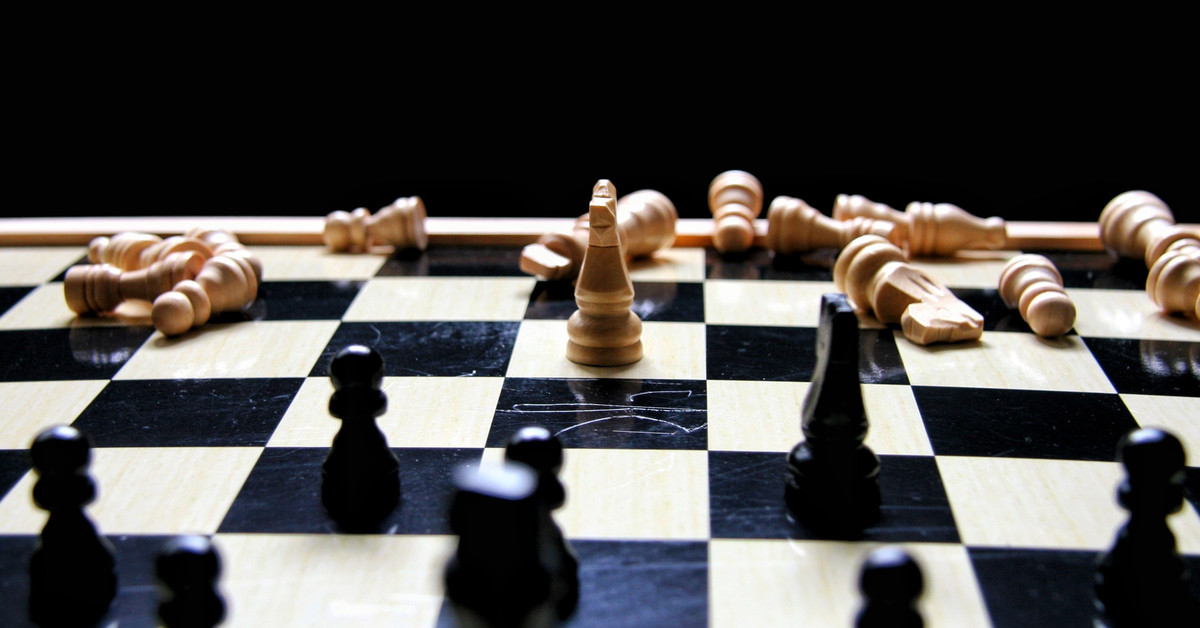
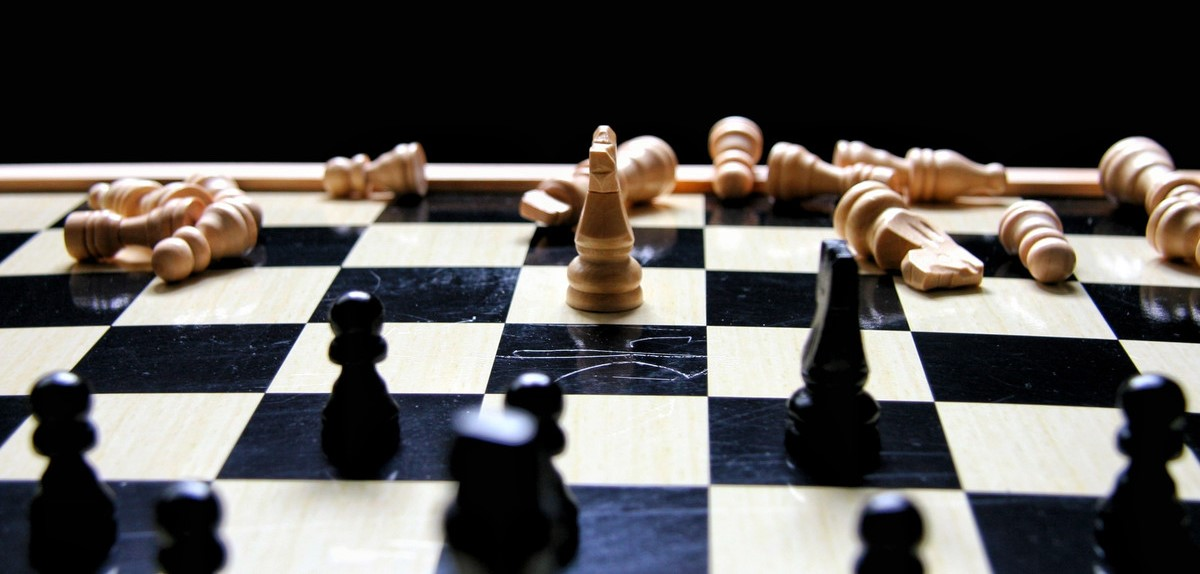
Falta configuraciones visuales

diff --git a/chessproject/chessapp/templates/chessapp/contacto.html b/chessproject/chessapp/templates/chessapp/contacto.html
@@ -20,13 +20,12 @@
                 <li class="nav-item"><a class="nav-link" href="{% url 'home' %}">Inicio</a></li>
                 <li class="nav-item"><a class="nav-link" href="{% url 'partidas_en_vivo' %}">Partidas en Vivo</a></li>
                 <li class="nav-item"><a class="nav-link" href="{% url 'tutoriales' %}">Tutoriales</a></li>                
-                <li class="nav-item"><a class="nav-link" href="#">Contáctanos</a></li>
+                <li class="nav-item"><a class="nav-link" href="{% url 'contacto' %}">Contáctanos</a></li>
             </ul>
             <!-- Botones para acciones -->
             <div class="Botones_1">
                 <a class="btn btn-primary mx-2" href="{% url 'login' %}">Ingresar</a>
                 <a class="btn btn-secondary mx-2" href="{% url 'signin' %}">Registrarse</a>
-                <a class="btn btn-secondary mx-2" href="{% url 'menu' %}">Menú</a>
             </div>
         </div>
     </nav>
@@ -34,27 +33,27 @@
     <header class="bg-primary text-white text-center py-5">
         <h1>¡Bienvenido a Duoc Chess Web!</h1>
         <div id="demo" class="carousel slide" data-ride="carousel">
-            <!-- Indicadores -->
+            <!-- Indicators -->
             <ul class="carousel-indicators">
                 <li data-target="#demo" data-slide-to="0" class="active"></li>
                 <li data-target="#demo" data-slide-to="1"></li>
                 <li data-target="#demo" data-slide-to="2"></li>
             </ul>
             
-            <!-- Diapositivas -->
+            <!-- The slideshow -->
             <div class="carousel-inner">
                 <div class="carousel-item active">
-                    <img src="{% static 'chessapp/images/imagen_1.jpg' %}" class="d-block w-100" alt="Imagen 1" style="width:100%;">
+                    <img src="{% static 'chessapp/images/imagen_1.png' %}" class="d-block w-100" alt="Imagen 1">
                 </div>
                 <div class="carousel-item">
-                    <img src="{% static 'chessapp/images/imagen_2.jpeg' %}" class="d-block w-100" alt="Imagen 2" style="width:100%;">
+                    <img src="{% static 'chessapp/images/imagen_2.jpeg' %}" class="d-block w-100" alt="Imagen 2">
                 </div>
                 <div class="carousel-item">
-                    <img src="{% static 'chessapp/images/imagen_3.jpg' %}" class="d-block w-100" alt="Imagen 3" style="width:100%;">
+                    <img src="{% static 'chessapp/images/imagen_3.jpg' %}" class="d-block w-100" alt="Imagen 3">
                 </div>
             </div>
             
-            <!-- controles de izquierda y derecha -->
+            <!-- Left and right controls -->
             <a class="carousel-control-prev" href="#demo" data-slide="prev">
                 <span class="carousel-control-prev-icon"></span>
             </a>
@@ -62,33 +61,36 @@
                 <span class="carousel-control-next-icon"></span>
             </a>
         </div>
-        
     </header>
 
     <div class="container my-5">
-        <h2 class="text-center">¿Cómo Jugar?</h2>
+        <h2 class="text-center">¿Quienes somos?</h2>
         <div class="row">
             <div class="col-md-4 text-center">
                 <div class="card mb-4 shadow-sm">
                     <div class="card-body">
-                        <h5 class="card-title">Paso 1: Regístrate</h5>
-                        <p class="card-text">Crea una cuenta gratuita para comenzar a jugar y guarda tus partidas.</p>
+                        <h5 class="card-title">Presentación</h5>
+                        <p class="card-text">¡Bienvenidos a nuestra página web de ajedrez inclusiva! Somos un grupo de estudiantes del Instituto 
+                            DuocUC con una pasión por el ajedrez y un firme compromiso con la accesibilidad.</p>
                     </div>
                 </div>
             </div>
             <div class="col-md-4 text-center">
                 <div class="card mb-4 shadow-sm">
                     <div class="card-body">
-                        <h5 class="card-title">Paso 2: Aprende las Reglas</h5>
-                        <p class="card-text">Revisa nuestras guías y tutoriales para aprender las reglas del juego.</p>
+                        <h5 class="card-title">Misión</h5>
+                        <p class="card-text">Nuestra misión es crear un espacio donde las personas con discapacidades visuales puedan disfrutar y participar en el juego de ajedrez. 
+                            Creemos que el ajedrez es un juego que no solo estimula la mente, sino que también fomenta la camaradería y la inclusión. 
+                            Por ello, hemos diseñado nuestra plataforma teniendo en cuenta las necesidades específicas de los jugadores con discapacidades visuales.</p>
                     </div>
                 </div>
             </div>
             <div class="col-md-4 text-center">
                 <div class="card mb-4 shadow-sm">
                     <div class="card-body">
-                        <h5 class="card-title">Paso 3: Juega Partidas</h5>
-                        <p class="card-text">Compite en partidas en tiempo real contra jugadores de todo el mundo.</p>
+                        <h5 class="card-title">Visión</h5>
+                        <p class="card-text">A través de nuestra página, ofrecemos recursos educativos, tutoriales y oportunidades para jugar en línea con otros entusiastas del ajedrez. 
+                            Utilizamos tecnología de accesibilidad para asegurarnos de que todos, independientemente de sus habilidades visuales, puedan aprender y disfrutar del ajedrez.</p>
                     </div>
                 </div>
             </div>

diff --git a/chessproject/chessapp/templates/chessapp/tutoriales.html b/chessproject/chessapp/templates/chessapp/tutoriales.html
@@ -47,6 +47,26 @@
 </head>
 <body>
 
+    <nav class="navbar navbar-expand-lg navbar-light bg-light">
+        <a class="navbar-brand" href="#">Ajedrez Online</a>
+        <button class="navbar-toggler" type="button" data-toggle="collapse" data-target="#navbarNav" aria-controls="navbarNav" aria-expanded="false" aria-label="Toggle navigation">
+            <span class="navbar-toggler-icon"></span>
+        </button>
+        <div class="collapse navbar-collapse" id="navbarNav">
+            <ul class="navbar-nav mr-auto">
+                <li class="nav-item"><a class="nav-link" href="{% url 'home' %}">Inicio</a></li>
+                <li class="nav-item"><a class="nav-link" href="{% url 'partidas_en_vivo' %}">Partidas en Vivo</a></li>
+                <li class="nav-item"><a class="nav-link" href="{% url 'tutoriales' %}">Tutoriales</a></li>                
+                <li class="nav-item"><a class="nav-link" href="{% url 'contacto' %}">Contáctanos</a></li>
+            </ul>
+            <!-- Botones para acciones -->
+            <div class="Botones_1">
+                <a class="btn btn-primary mx-2" href="{% url 'login' %}">Ingresar</a>
+                <a class="btn btn-secondary mx-2" href="{% url 'signin' %}">Registrarse</a>
+            </div>
+        </div>
+    </nav>
+
     <div class="container my-5">
         <h1>Introducción al Ajedrez</h1>
         <p class="text-center">El ajedrez es un juego de estrategia que se juega entre dos jugadores. Se juega en un tablero cuadrado de 8x8 casillas, y cada jugador controla 16 piezas que se mueven de diferentes maneras. El objetivo del juego es dar jaque mate al rey del oponente.</p>
@@ -76,16 +96,19 @@
         <h2>Video Tutoriales</h2>
         <div class="video-tutorial">
             <div class="video-title">Introducción al Ajedrez</div>
-            <iframe width="100%" height="315" src="https://www.youtube.com/watch?v=e57NqRHE6AY" frameborder="0" allow="accelerometer; autoplay; clipboard-write; encrypted-media; gyroscope; picture-in-picture" allowfullscreen></iframe>
+            <iframe width="100%" height="315" src="https://www.youtube.com/embed/e57NqRHE6AY?rel=0" frameborder="0" allow="accelerometer; autoplay; clipboard-write; encrypted-media; gyroscope; picture-in-picture" allowfullscreen></iframe>
+
         </div>
         
         <div class="video-tutorial">
             <div class="video-title">Reglas Básicas del Ajedrez</div>
-            <iframe width="100%" height="315" src="https://www.youtube.com/embed/jT5Frf3Zpcg" frameborder="0" allowfullscreen></iframe>
+            <iframe width="100%" height="315" src="https://www.youtube.com/embed/3VOa8bO1RX4?rel=0" frameborder="0" allow="accelerometer; autoplay; clipboard-write; encrypted-media; gyroscope; picture-in-picture" allowfullscreen></iframe>
+
         </div>
         <div class="video-tutorial">
             <div class="video-title">Estrategias Básicas para Principiantes</div>
-            <iframe width="100%" height="315" src="https://www.youtube.com/embed/AjvGOfODHR0" frameborder="0" allowfullscreen></iframe>
+            <iframe width="100%" height="315" src="https://www.youtube.com/embed/z_KA-xVOiIc?rel=0" frameborder="0" allow="accelerometer; autoplay; clipboard-write; encrypted-media; gyroscope; picture-in-picture" allowfullscreen></iframe>
+            
         </div>
 
         <h2>Recursos Adicionales</h2>

diff --git a/chessproject/chessapp/templates/chessapp/configuracion.html b/chessproject/chessapp/templates/chessapp/configuracion.html
@@ -63,26 +63,21 @@
     const db = firebaseApp.firestore();
     const auth = firebaseApp.auth();
 
-    function logout() {
-        // Cerrar sesión en Firebase
-        firebase.auth().signOut().then(() => {
-            alert("Sesión cerrada con éxito.");
-            window.location.href = "/"; // Redirige a la página de inicio
-        }).catch((error) => {
-            alert("Error al cerrar sesión: " + error.message);
-        });
-    }
+    
 </script>
 
 <header class="menu-header">
-    <h1>Menú</h1>
+    <h1>configuración</h1>
 </header>
 
 <div class="container menu-content">
-    <a href="{% url 'tablero' %}" class="menu-button btn">Jugar</a>
-    <a href="{% url 'estadisticas' %}" class="menu-button btn">Estadísticas</a> 
-    <a href="{% url 'configuracion' %}" class="menu-button btn">Configuración</a>
-    <button class="menu-button btn logout-button" onclick="logout()">Cerrar Sesión</button>
+    <a  class="menu-button btn">accesibilidad</a>
+    <a  class="menu-button btn">Resaltar movimiento</a>
+    <a  class="menu-button btn">Sonido</a> 
+    <a class="menu-button btn">Idioma</a>
+    <a class="btn btn-secondary mx-2" href="{% url 'menu' %}">Menú</a>
+
+    
 </div>
 
 <script src="https://cdn.jsdelivr.net/npm/jquery@3.5.1/dist/jquery.slim.min.js"></script>

diff --git a/chessproject/chessapp/templates/chessapp/partidas_en_vivo.html b/chessproject/chessapp/templates/chessapp/partidas_en_vivo.html
@@ -16,10 +16,10 @@
         </button>
         <div class="collapse navbar-collapse" id="navbarNav">
             <ul class="navbar-nav">
-                <li class="nav-item"><a class="nav-link" href="{% url 'menu' %}">Inicio</a></li>
-                <li class="nav-item"><a class="nav-link" href="#">Partidas en Vivo</a></li>
-                <li class="nav-item"><a class="nav-link" href="#">Tutoriales</a></li>
-                <li class="nav-item"><a class="nav-link" href="#">Contáctanos</a></li>
+                <li class="nav-item"><a class="nav-link" href="{% url 'home' %}">Inicio</a></li>
+                <li class="nav-item"><a class="nav-link" href="{% url 'partidas_en_vivo' %}">Partidas en Vivo</a></li>
+                <li class="nav-item"><a class="nav-link" href="{% url 'tutoriales' %}">Tutoriales</a></li>
+                <li class="nav-item"><a class="nav-link" href="{% url 'contacto' %}">Contáctanos</a></li>
             </ul>
         </div>
     </nav>

diff --git a/chessproject/chessapp/static/chessapp/styles.css b/chessproject/chessapp/static/chessapp/styles.css
@@ -1,29 +1,21 @@
-.body {
-    background-color: #582525;
-    font-family: Arial, sans-serif;
-}
-
-h1 {
-    color: #9e5151;
-    text-align: center;
-}
-
 
 .chess-board {
     text-align: center; /* Centrar el contenido dentro de este div */
     margin-bottom: 30px; /* Espacio debajo de la imagen */
 }
 
+.carousel-inner {
+    height: 300px; /* Altura fija para el carrusel */
+}
 
 .carousel-inner img {
-    width: 100%;
-    height: 100%;
-    height: auto; /* Mantener la proporción de la imagen */
+    width: 100%; /* Ancho completo */
+    height: 100%; /* Altura completa */
+    object-fit: cover; /* Asegura que las imágenes cubran el contenedor sin distorsionarse */
     border: 2px solid #000; /* Borde negro alrededor de la imagen */
     border-radius: 8px; /* Bordes redondeados */
     box-shadow: 0 4px 8px rgba(0, 0, 0, 0.2); /* Sombra suave para darle profundidad */
 }
-
 
 
 /* Estilos generales para los botones */

diff --git a/chessproject/chessapp/templates/chessapp/tablero.html b/chessproject/chessapp/templates/chessapp/tablero.html
@@ -7,6 +7,8 @@
     <script type="text/javascript" src="{% static 'chessapp/chess.js' %}"></script>
     <link type="text/css" rel="stylesheet" href="{% static 'chessapp/chess.css' %}" />
     <link type="text/css" rel="stylesheet" href="{% static 'chessapp/gnomechess.css' %}" />
+	<link rel="stylesheet" type="text/css" href="{% static 'styles.css' %}">
+    <link rel="stylesheet" href="https://cdn.jsdelivr.net/npm/bootstrap@4.6.2/dist/css/bootstrap.min.css" integrity="sha384-xOolHFLEh07PJGoPkLv1IbcEPTNtaed2xpHsD9ESMhqIYd0nLMwNLD69Npy4HI+N" crossorigin="anonymous">
 <title>2D/3D Javascript Ajedrez</title>
 
 <script type="text/javascript">

diff --git a/chessproject/chessapp/urls.py b/chessproject/chessapp/urls.py
@@ -11,5 +11,7 @@ urlpatterns = [
     path('partidas-en-vivo/', views.partidas_en_vivo, name='partidas_en_vivo'),
     path('tutoriales/', views.tutoriales, name='tutoriales'),
     path('estadisticas/', views.estadisticas_view, name='estadisticas'),
+    path('contacto/', views.contacto, name='contacto'),
+    path('configuracion/', views.configuracion, name='configuracion'),
 ]
 # 

diff --git a/chessproject/chessapp/views.py b/chessproject/chessapp/views.py
@@ -51,6 +51,12 @@ def tutoriales(request):
 def estadisticas_view(request):
     return render(request, 'chessapp/estadisticas.html')
 
+def contacto(request):
+    return render(request, 'chessapp/contacto.html')
+
+def configuracion(request):
+    return render(request, 'chessapp/configuracion.html')
+
 
 
 
